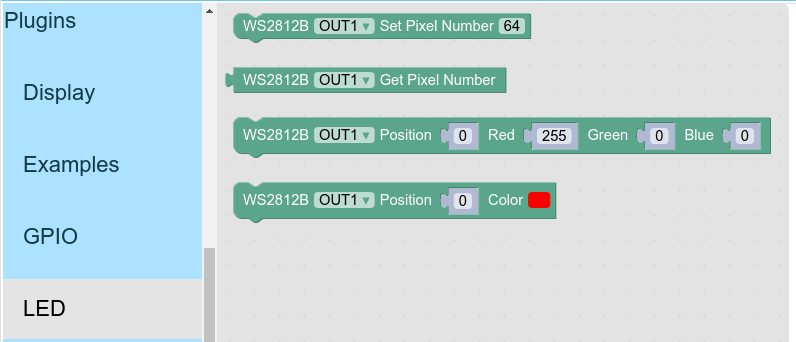
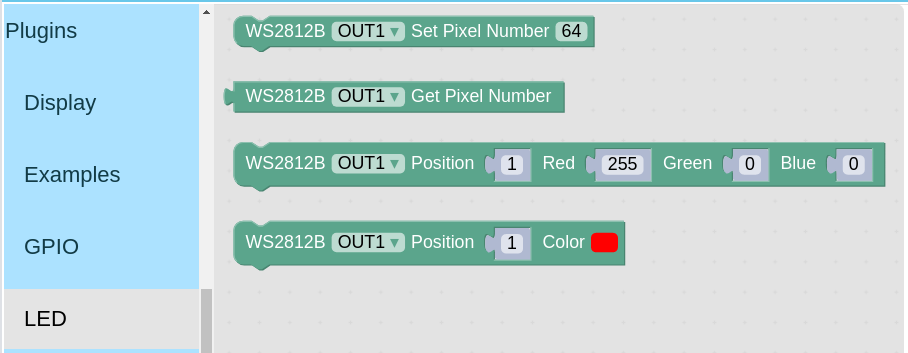
update ws2812b_rmt to use 1-based index

diff --git a/plugins/led/ws2812b_rmt/msg/en.js b/plugins/led/ws2812b_rmt/msg/en.js
@@ -13,13 +13,13 @@ Blockly.Msg.WS2812B_SET_PIXEL_NUM_TITLE = "Set Pixel Number";
 Blockly.Msg.WS2812B_SET_PIXEL_NUM_TOOLTIP = "Set WS2812B pixel number used in string";
 Blockly.Msg.WS2812B_SET_PIXEL_NUM_HELPURL = "";
 
-Blockly.Msg.WS2812B_PIXEL_RGB_TOOLTIP = "Show WS2812B pixel red,green,blue value 0 to 255 at selected position value 0 to (pixel_number - 1)";
+Blockly.Msg.WS2812B_PIXEL_RGB_TOOLTIP = "Show WS2812B pixel red,green,blue value 0 to 255 at selected position value 1 to number of pixel";
 Blockly.Msg.WS2812B_PIXEL_RGB_HELPURL = "";
 
-Blockly.Msg.WS2812B_PIXEL_COLOR_PICKER_TOOLTIP = "Show WS2812B pixel from color picker at selected position value 0 to (pixel_number - 1)";
+Blockly.Msg.WS2812B_PIXEL_COLOR_PICKER_TOOLTIP = "Show WS2812B pixel from color picker at selected position value 1 to number of pixel";
 Blockly.Msg.WS2812B_PIXEL_COLOR_PICKER_HELPURL = "";
 
-Blockly.Msg.WS2812B_POSITION_NUMBER_TOOLTIP = "Position value 0 to (pixel_number - 1)";
+Blockly.Msg.WS2812B_POSITION_NUMBER_TOOLTIP = "Position value 1 to number of pixel";
 Blockly.Msg.WS2812B_POSITION_NUMBER_HELPURL = "";
 Blockly.Msg.WS2812B_COLOR_NUMBER_TOOLTIP = "Color value 0 to 255";
 Blockly.Msg.WS2812B_COLOR_NUMBER_HELPURL = "";

diff --git a/plugins/led/ws2812b_rmt/msg/th.js b/plugins/led/ws2812b_rmt/msg/th.js
@@ -19,7 +19,7 @@ Blockly.Msg.WS2812B_PIXEL_SHOW_HELPURL = "";
 Blockly.Msg.WS2812B_PIXEL_COLOR_PICKER_TOOLTIP = "แสดงพิกเซลของ WS2812B ด้วยค่าจากสีที่เลือก ในตำแหน่งที่กำหนด (ค่าตั้งแต่ 1 ถึงจำนวนพิกเซล)";
 Blockly.Msg.WS2812B_PIXEL_COLOR_PICKER_HELPURL = "";
 
-Blockly.Msg.WS2812B_POSITION_NUMBER_TOOLTIP = "ค่าตำแหน่ง 0 ถึง 63";
+Blockly.Msg.WS2812B_POSITION_NUMBER_TOOLTIP = "ค่าตำแหน่ง 1 ถึง 64";
 Blockly.Msg.WS2812B_POSITION_NUMBER_HELPURL = "";
 Blockly.Msg.WS2812B_COLOR_NUMBER_TOOLTIP = "ค่าสี 0 ถึง 255";
 Blockly.Msg.WS2812B_COLOR_NUMBER_HELPURL = "";

diff --git a/plugins/led/ws2812b_rmt/blocks.js b/plugins/led/ws2812b_rmt/blocks.js
@@ -135,7 +135,7 @@ Blockly.Blocks["ws2812b_rmt.pixel_color_picker"] = {
 Blockly.Blocks["ws2812b_rmt.position_number"] = {
 	init: function() {
 		this.appendDummyInput()
-			.appendField(new Blockly.FieldNumber(0, 0, 63, 1), 'VALUE');
+			.appendField(new Blockly.FieldNumber(1, 1, 64, 1), 'VALUE');
 		this.setOutput(true, 'Number');
 		this.setPreviousStatement(false);
 		this.setNextStatement(false);

diff --git a/plugins/led/ws2812b_rmt/docs/README.md b/plugins/led/ws2812b_rmt/docs/README.md
@@ -32,7 +32,7 @@
 
 ### ตัวเลือกในบล๊อก
 - ช่องที่ต่อ WS2812B อยู่ เลือกเป็น OUT1 หรือ OUT2
-- Position กำหนดให้มีผลกับตำแหน่งของ WS2812B ที่ต่อพ่วงไว้ มีค่าตั้งแต่ 0 ถึง 63
+- Position กำหนดให้มีผลกับตำแหน่งของ WS2812B ที่ต่อพ่วงไว้ มีค่าตั้งแต่ 1 ถึง 64
 - Red, Green, Blue กำหนดค่าสีตั้งแต่ 0 ถึง 255
 - Color เลือกค่าสีจากตารางสี
 
